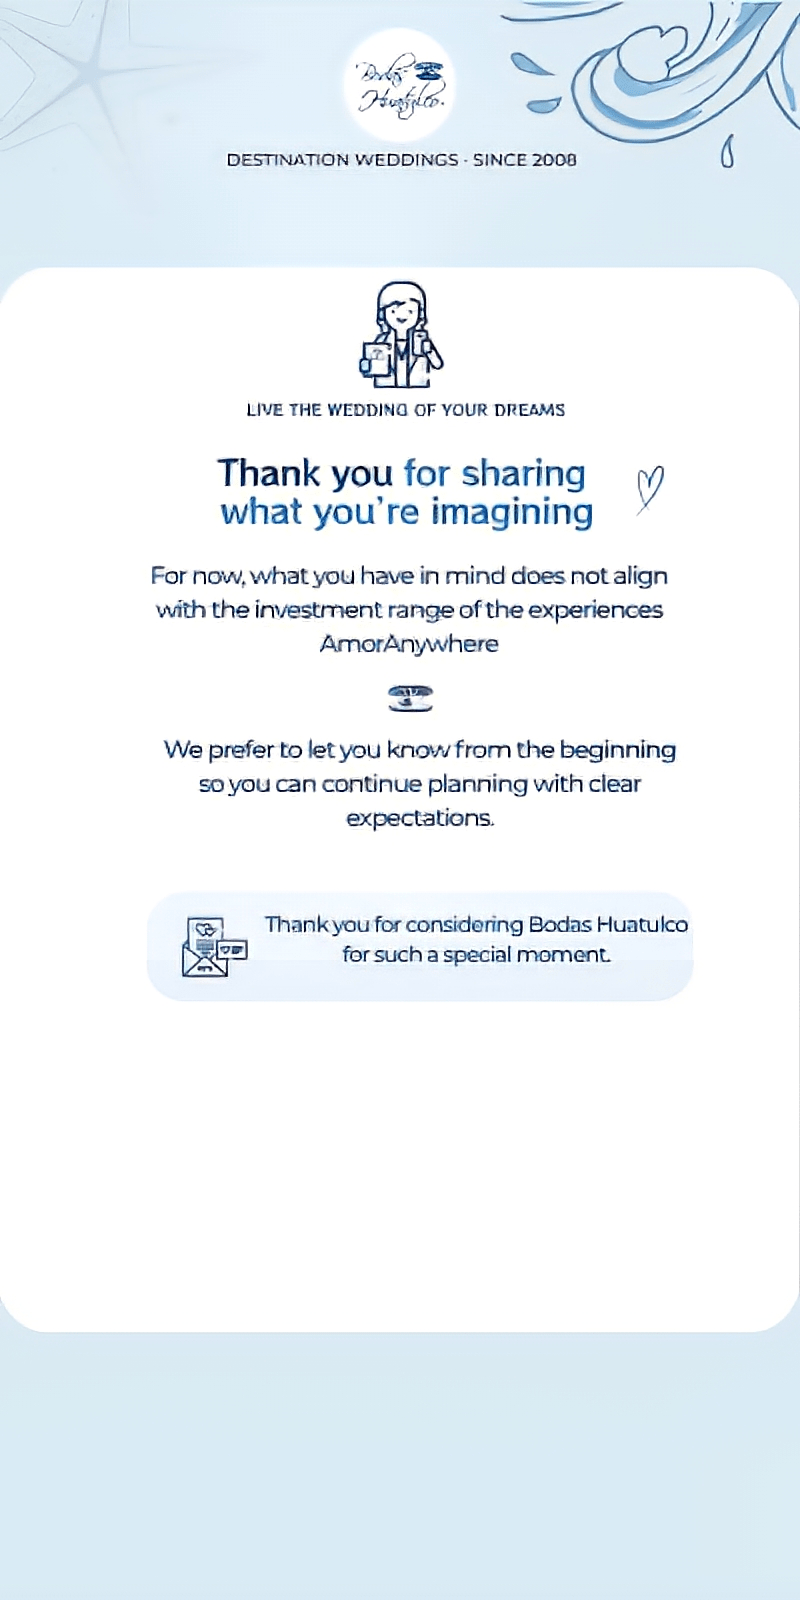
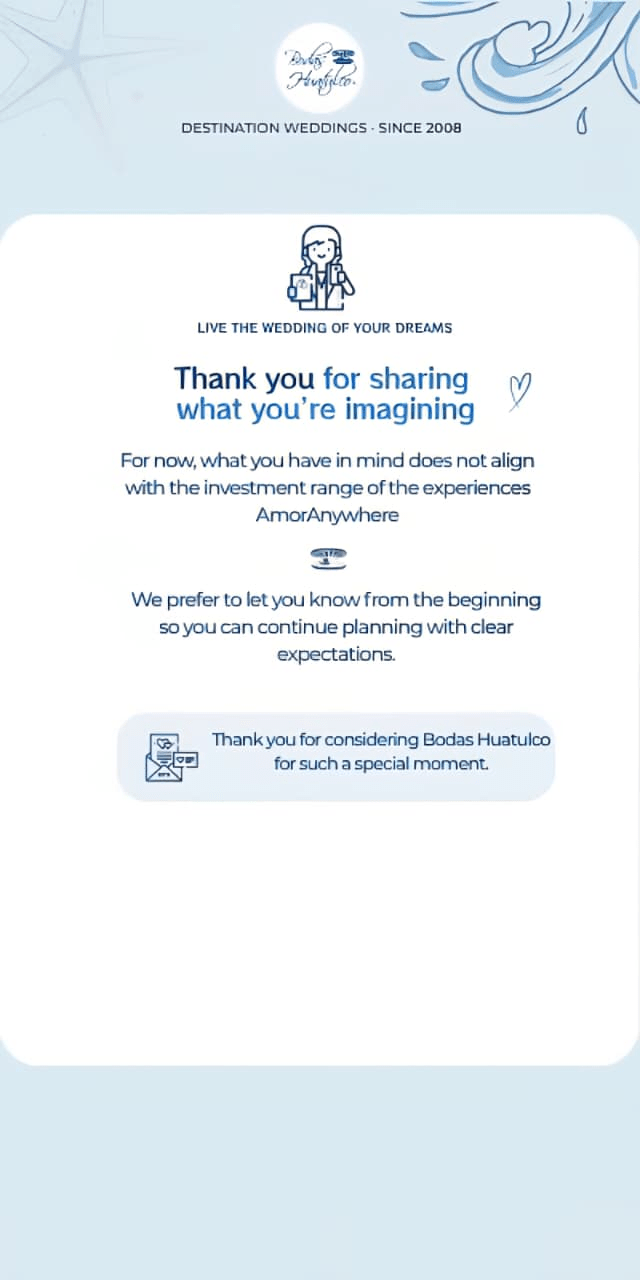
Correccion
Se cambiaron las IMG's aumentando su calidad y se corrigio el Lead para que solo se dispare en ciertos casos.

diff --git a/src/app/[locale]/page.tsx b/src/app/[locale]/page.tsx
@@ -59,14 +59,16 @@ export default function Home() {
     
     useEffect(() => {
         if (botonClickeado) {
-          fpixel.event("Lead", {
-                value: cotizacion,
-                currency: "MXN"
-              },
-              {
-                eventID: idUnico
-              });
+            if ((state.pr1 <= 15000 && state.pr7 > 49000) || (state.pr1 > 15000 && state.pr7 > 149000)) {
+                fpixel.event("Lead", {
+                      value: cotizacion,
+                      currency: "MXN"
+                    },
+                    {
+                      eventID: idUnico
+                    });
             }
+        }
     }, [botonClickeado]);  
 
     const seis = useTranslations("pr6");
